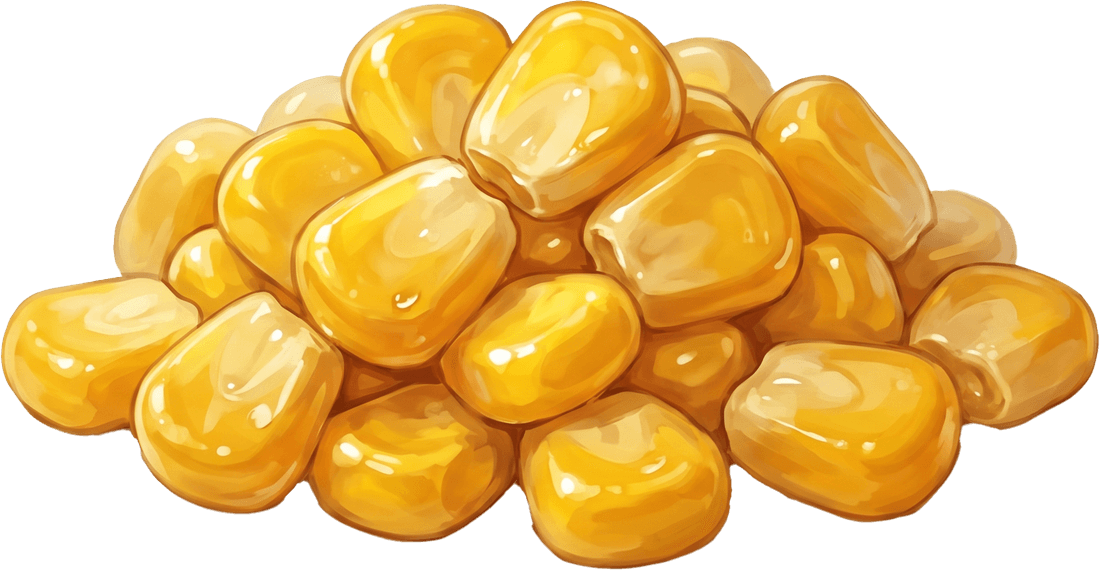
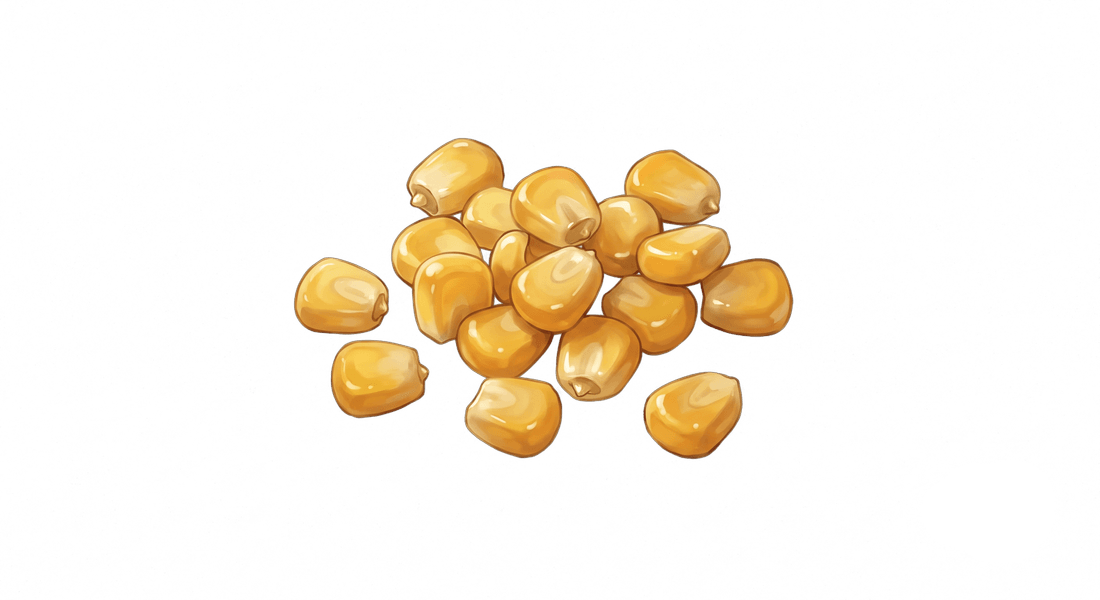
Topping-Assets (1x) integriert + komprimiert, Scene-Lab um Toppings-Modus
Sechs Topping-PNGs (ajitama/mais aktualisiert, naruto/nori/bambussprossen/
fruehlingszwiebeln neu) auf 1100px optimiert (je ~3.5-4.2MB -> ~90-205KB).
Nur die 1x-Varianten; -x2 (vollerer Haufen) kommt spaeter.

Scene-Lab: neuer Tab "Toppings" ueber die generische PlacementMode (Kontext
Nudel + Protein). Groessen-Regler-Min auf 60 gesenkt (Toppings sind kleiner).

diff --git a/src/screens/SceneLabScreen.jsx b/src/screens/SceneLabScreen.jsx
@@ -1,5 +1,5 @@
 import { useState } from 'react';
-import { BROTHS, NOODLES, PROTEINS } from '../config/menu';
+import { BROTHS, NOODLES, PROTEINS, TOPPINGS } from '../config/menu';
 import { ANCHORS, ANCHOR_DEFAULT, BROTH_CY, BROTH_RX, BROTH_RY } from '../config/sceneConfig';
 import { HERO_LAYOUT, companionWidth, layoutCompanions } from '../scene/heroCompanions';
 import BowlScene from '../scene/BowlScene';
@@ -360,7 +360,7 @@ function PlacementMode({ category, options, defaultAnchor, context, sortLabel, s
           <Slider label="Skala (Anker)" value={cur.scale} min={0.5} max={1.8} step={0.05} defaultValue={dflt.scale} onChange={(v) => setCur('scale', v)} />
           <Slider label="Drehung (Grad)" value={cur.rot} min={-180} max={180} step={1} defaultValue={dflt.rot} onChange={(v) => setCur('rot', v)} />
           <Slider label="Höhe / Streckung" value={cur.stretch} min={0.4} max={2} step={0.05} defaultValue={dflt.stretch} onChange={(v) => setCur('stretch', v)} />
-          <Slider label={`Größe (${id})`} value={cur.size} min={100} max={460} step={5} defaultValue={dflt.size} onChange={(v) => setCur('size', v)} />
+          <Slider label={`Größe (${id})`} value={cur.size} min={60} max={460} step={5} defaultValue={dflt.size} onChange={(v) => setCur('size', v)} />
         </div>
 
         <ValueBox
@@ -386,6 +386,12 @@ const PROTEIN_CONTEXT = [
   { id: 'nori', category: 'topping' },
   { id: 'fruehlingszwiebeln', category: 'topping' },
 ];
+// Toppings tunt man auf der Basis Nudel + Protein (die anderen Toppings lässt man
+// weg, sonst überlagern sie sich gegenseitig beim Einzel-Tunen).
+const TOPPING_CONTEXT = [
+  { id: 'mittel', category: 'noodle' },
+  { id: 'chashu-schwein', category: 'protein' },
+];
 
 function NoodleMode() {
   return (
@@ -409,6 +415,19 @@ function ProteinMode() {
       context={PROTEIN_CONTEXT}
       sortLabel="Protein"
       sizeListName="PROTEINS"
+    />
+  );
+}
+
+function ToppingMode() {
+  return (
+    <PlacementMode
+      category="topping"
+      options={TOPPINGS}
+      defaultAnchor={ANCHOR_DEFAULT.topping}
+      context={TOPPING_CONTEXT}
+      sortLabel="Topping"
+      sizeListName="TOPPINGS"
     />
   );
 }
@@ -454,6 +473,9 @@ export default function SceneLabScreen() {
           <Toggle on={mode === 'protein'} onClick={() => setMode('protein')} color="primary">
             Protein
           </Toggle>
+          <Toggle on={mode === 'topping'} onClick={() => setMode('topping')} color="primary">
+            Toppings
+          </Toggle>
           <Toggle on={mode === 'hero'} onClick={() => setMode('hero')} color="primary">
             Status-Komposition
           </Toggle>
@@ -463,6 +485,7 @@ export default function SceneLabScreen() {
         {mode === 'broth' && <BrothMode />}
         {mode === 'noodle' && <NoodleMode />}
         {mode === 'protein' && <ProteinMode />}
+        {mode === 'topping' && <ToppingMode />}
         {mode === 'hero' && <HeroMode />}
       </div>
     </div>